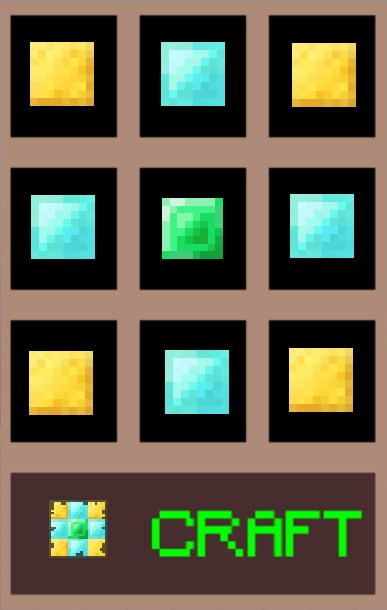
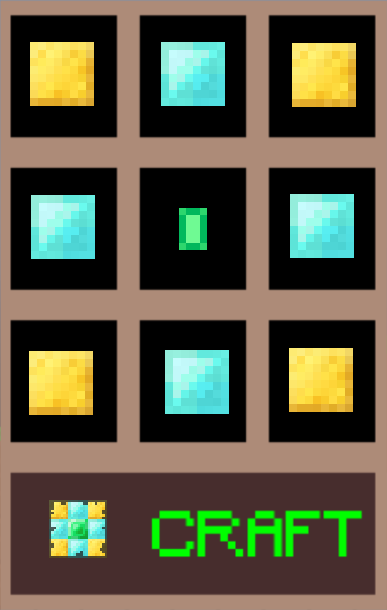
Done website finished

Changed region(s): [[0.4031, 0.3115, 0.5891, 0.4361]]

diff --git a/Website/docs/style.css b/Website/docs/style.css
@@ -1,0 +1,3 @@
+img {
+    border-radius: 50%;
+  }

diff --git a/Website/docs/maingame.md b/Website/docs/maingame.md
@@ -1,7 +1,7 @@
 ## Playing the Game
 In order to play the base interactive game, please run the following command after installing the package, within the games main directory: `/SCRUM-DOG-MILLIONAIRES/`
 
-```python
+```py
 python3 main.py 
 ```
 Once you open the game, you are greeted with a main start screen. 
@@ -43,32 +43,53 @@ Each block has a different hardness and some require stronger tools in order to 
 - iron
  
 ### Craftable items
+<figure>
+    <div style="float:left" >
+      <img src="/assets/1.png" title="crafting wooden planks" width="190.5" height="150">
+      <figcaption style="word-wrap: break-word; inline-size: 190px; " >1 wooden log crafts 4 wooden planks</figcaption>
+    </div>
+    <space>
+    <div style="float:left" >
+        <img src="/assets/2.png" title="crafting wooden pickaxe" width="195" height="195">
+        <figcaption style="word-wrap: break-word; inline-size: 190px; ">5 wooden planks crafts 1 wooden pickaxe</figcaption>
+    </div>
+    <space>
+    <div style="float:left" >
+       <img src="/assets/3.png" title= "crafting stone pickaxe" width="189.5" height="194">
+       <figcaption style="word-wrap: break-word; inline-size: 190px; ">3 stones and 2 wooden planks crafts 1 stone pickaxe</figcaption>
+    </div>
+</figure>
 
-#### wooden planks
-<p float="left">
-  <img src="/assets/1.png" div class="drawing" width="200"/>
-  <img src="/assets/2.png" alt="drawing" width="200"/>
-  <img src="/assets/3.png" alt="drawing" width="200"/>
-</p>
+<figure>
+    <div style="float:left" >
+      <img src="/assets/4.png" title="crafting gold ingot" width="191" height="150">
+      <figcaption style="word-wrap: break-word; inline-size: 190px; " >1 gold ore crafts 1 gold ingot</figcaption>
+    </div>
+    <space>
+    <div style="float:left" >
+        <img src="/assets/5.png" title="crafting diamond" width="191" height="150">
+        <figcaption style="word-wrap: break-word; inline-size: 190px; ">1 diamond ore crafts 1 diamond</figcaption>
+    </div>
+    <space>
+    <div style="float:left" >
+       <img src="/assets/6.png" title= "crafting emerald" width="191" height="195">
+       <figcaption style="word-wrap: break-word; inline-size: 190px; ">1 emerald ore crafts 1 emerald</figcaption>
+    </div>
+</figure>
 
-<figcaption>1 wooden log crafts 4 wooden planks</figcaption>
-
-#### wooden pickaxe
-
-![woodenpickaxe](/assets/2.png "crafting wooden pickaxe") 
-<figcaption>5 wooden planks crafts 1 wooden pickaxe</figcaption>
-
-#### stone pickaxe
-
-3 stones and 2 wooden planks crafts 1 stone pickaxe
-
-![stonepickaxe](/assets/3.png "crafting stone pickaxe") 
-
-
-
-<!-- <img src="assets/PlayGame.png" alt="FullLogo" width="400" 
-style="
-  display: block;
-  margin-left: auto;
-  margin-right: auto;
-  width: 50%;"/> -->
+<figure>
+    <div style="float:left" >
+      <img src="/assets/8.png" title="crafting diamond blocks" width="191" height="150">
+      <figcaption style="word-wrap: break-word; inline-size: 190px; " >9 diamonds crafts 1 diamond block</figcaption>
+    </div>
+    <space>
+    <div style="float:left" >
+        <img src="/assets/9.png" title="crafting gold blocks" width="191" height="150">
+        <figcaption style="word-wrap: break-word; inline-size: 190px; ">9 gold ingots crafts 1 gold block</figcaption>
+    </div>
+    <space>
+    <div style="float:left" >
+       <img src="/assets/10.png" title= "crafting end game block" width="191" height="195">
+       <figcaption style="word-wrap: break-word; inline-size: 190px; ">4 gold blocks, 4 diamond blocks and 1 emerald crafts 1 end game block</figcaption>
+    </div>
+</figure>

diff --git a/Website/docs/gymgame.md b/Website/docs/gymgame.md
@@ -4,41 +4,41 @@
 
 Ensure you have the following code in your file:
 
-```python3
+```py
 import gym
 import gym_MC
 
-env = gym.make("MinePy-1", render_mode="human",easyStart=0,seed=)
+env = gym.make("MinePy-1", render_mode="human",easyStart=0,seed=1024)
 
 ```
 
 ## Setting up new environments
 render_mode:  
 
-* `human`: renders the game to a screen  
-* `rgb_array`: returns the screen as a 2d array of pixel colour values
+* `human`: renders the game to a screen. 
+* `rgb_array`: returns the screen as a 2d array of pixel colour values.
 
   
 
 easyStart:  
 
-* `0:` no extra items
+* `0:` no extra items.
 
-* `1:` player starts with wooden pickaxe and 4 wooden planks
+* `1:` player starts with wooden pickaxe and 4 wooden planks.
 
-* `2:` player starts with wooden pickaxe and 4 wooden planks, a stone pickaxe, a diamond and an emerald
+* `2:` player starts with wooden pickaxe and 4 wooden planks, a stone pickaxe, a diamond and an emerald.
 
   
 
 seed:
 
-* integer value that acts as seed for both the world and the AI
+* integer value that acts as seed for both the world and the AI.
 
   
 
 In order to perform an action use the following:
 
-```python3
+```py
 
 env.step(step)
 
@@ -46,21 +46,23 @@ env.step(step)
 
 where step is an integer value between 0 and 75, representing an action the player can take.
 
-* `0:` no action
+* `0:` no action.
 
-* `1-4:` movement actions
+* `1-4:` movement actions.
 
-* `4-24:` break and placing actions
+* `4-24:` break and placing actions.
 
-* `25-64:` change selected item
+* `25-64:` change selected item.
 
-* `65-74:` when next to a crafting table, it will craft a specific item
+* `65-74:` when next to a crafting table, it will craft a specific item.
 
 ## Other functions
 
-* `reset:` takes same options as above and resets the game
+* `reset:` takes same options as above and resets the game.
 
-* `render:` forces game to render
+* `render:` forces game to render.
+
+* `step:` takes in an action, steps the agent forward, returns observations, reward, whether or not the game is done, and an dictionary of information, and will render if render mode is set to human.
 
 ## Creating new rewards
 

diff --git a/Website/docs/index.md b/Website/docs/index.md
@@ -62,16 +62,16 @@ SCRUM-DOG-MILLIONAIRES
 │
 │
 └───Textures
-│   │   ...          # Texture Files
+│   │   ...    # Texture Files
 │
 │
 └───Website
-│   │   ...          # Website Files
+│   │   ...     # Website Files
 │
 │
 └───MainGame
-│   │   main.py      # Main py file for the base interactive game
-│   │   ...          # Website Files
+│   │   main.py  # Main py file for the base interactive game
+│   │   ...      # Website Files
 ```
 
 ## Packages used
@@ -84,13 +84,7 @@ SCRUM-DOG-MILLIONAIRES
 
 ## Installing the package 
 In order to install the package locally, please run this from your local terminal after setting your current working directory using `cd /directoy/`. Then run the following command.
-```python
-pip install -e scrumdogmillionaires
-```
-
-## Setting up the Gym Agent
-
-```python
+```py
 pip install -e scrumdogmillionaires
 ```
 
